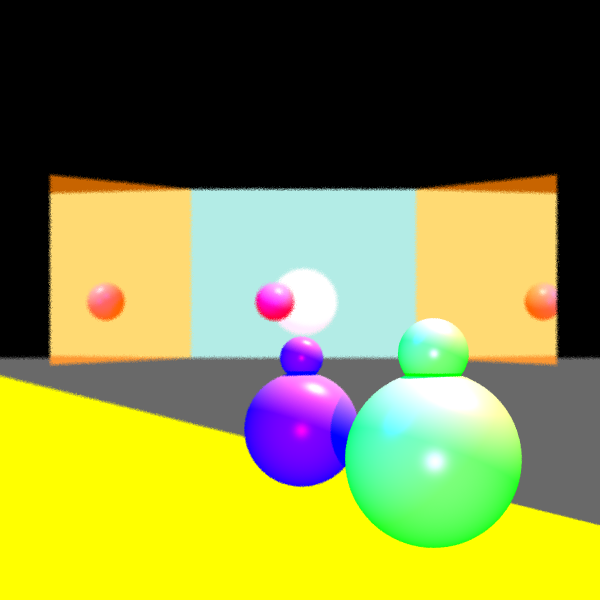
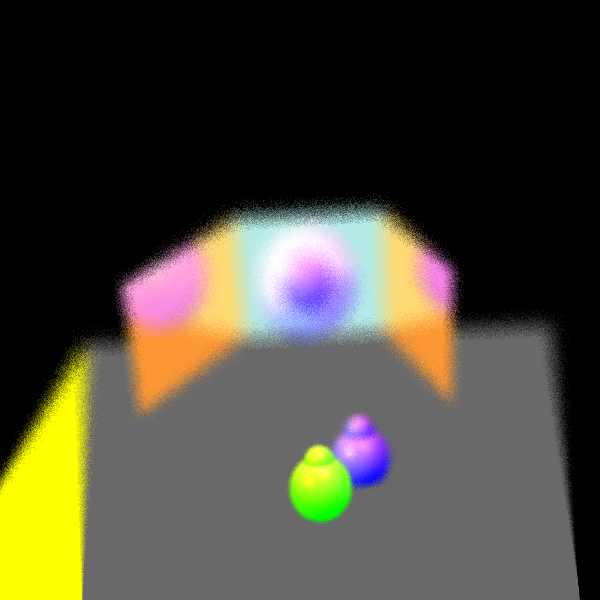
part 9 begin

diff --git a/unittests/renderer/CameraTest.java b/unittests/renderer/CameraTest.java
@@ -144,10 +144,11 @@ class CameraTest {
      */
     @Test
     public void ourImageWithDepth() {
-        Camera camera = new Camera(new Point(80, 0, 2), new Vector(-1, 0, 0), new Vector(0, 0, 1))
-                .setVPSize(200, 200).setVPDistance(1000);
+        Camera camera = new Camera(new Point(65, 5, 20), new Vector(-7, -0.5, -2), new Vector(-1, 0, 1))
+                .setVPSize(300, 300).setVPDistance(800);
 
-        camera.setDepthButton(true, 0.02, 13);
+
+        camera.setDepthButton(true, 2, 45);
 
         Point p0 = new Point(0, -3, 5);
         Point p1 = new Point(0, 3, 5);
@@ -177,43 +178,49 @@ class CameraTest {
                 new Quadrangle(p0, p1, p2, p3).setTransparency(new Double3(0.7)).setColor(Color.LIGHT_BLUE),
                 //mirrors
                 new Quadrangle(p1, p2, p5, p4).setReflectivity(new Double3(0.5)).setShininess(1000).setColor(Color.GOLD),
-                new Quadrangle(p7, p0, p3, p6).setReflectivity(new Double3(0.5)).setShininess(1000).setColor(Color.GOLD),
-                //sun
-                new Sphere(new Point(-100, 0, 2), 2d)
-                        .setEmission(Color.RED)
-                        .setMaterial(new Material().setKd(0.5).setKs(0.5).setShininess(30)),
+                new Quadrangle(p7, p0, p3, p6).setReflectivity(new Double3(0.5)).setShininess(1000).setColor(Color.GOLD)
+
+                ,new Sphere(new Point(2, 0, 3), 2)
+                .setEmission(Color.BLUE)
+                .setMaterial(new Material().setKd(0.5).setKs(0.5).setShininess(30).setKt(new Double3(0.7))),
+                new Sphere(new Point(2, 0, 3), 1)
+                        .setEmission(Color.BLUE)
+                        .setMaterial(new Material().setKd(0.2).setKs(0.1).setShininess(30)),
+
                 //close to window
-                new Sphere(new Point(1, -0.75, 2), 0.5)
-                        .setEmission(Color.RED)
-                        .setMaterial(new Material().setKd(0.5).setKs(0.5).setShininess(30)),
+
                 //close to camera bigger
-                new Sphere(new Point(63, 0.75, 1.1), 0.5)
-                        .setEmission(Color.GREEN)
-                        .setMaterial(new Material().setKd(0.5).setKs(0.5).setShininess(30)),
-                new Sphere(new Point(63, 0.75, 1.7), 0.2)
+
+
+                new Sphere(new Point(20, 2, 1.7), 1)
                         .setEmission(Color.GREEN)
                         .setMaterial(new Material().setKd(0.5).setKs(0.5).setShininess(30)),
                 //close to camera smaller
-                new Sphere(new Point(59, 0, 1.1), 0.4)
+                new Sphere(new Point(16, 3, 1.1), 1)
                         .setEmission(Color.BLUE)
                         .setMaterial(new Material().setKd(0.5).setKs(0.5).setShininess(30)),
-                new Sphere(new Point(59, 0, 1.6), 0.15)
+
+                        //heads
+                new Sphere(new Point(20, 2, 2.5), 0.5)
+                        .setEmission(Color.GREEN)
+                        .setMaterial(new Material().setKd(0.5).setKs(0.5).setShininess(30)),
+                //close to camera smaller
+                new Sphere(new Point(16, 3, 2), 0.5)
                         .setEmission(Color.BLUE)
                         .setMaterial(new Material().setKd(0.5).setKs(0.5).setShininess(30)),
-                //floor
-                //new Quadrangle(p16, p17, p19, p18).setColor(Color.YELLOW)
-                new Triangle(p16,p17,p19).setEmission(Color.DARK_GRAY),
-                new Triangle(p19,p18,p16).setEmission(Color.YELLOW)
+                        new Triangle(p16,p17,p19).setEmission(Color.DARK_GRAY),
+                        new Triangle(p19,p18,p16).setEmission(Color.YELLOW)
         );
 
         LinkedList<LightSource> lights = new LinkedList<>();
 
 
-        lights.add(new Spotlight(new Color(700, 400, 400),
-                new Point(40, 40, 115),
-                new Vector(-1, -1, -4)));
-        lights.add(new PointLight(Color.BLUE, new Point(100, -100, 100)));
-        lights.add(new DirectionalLight(Color.MAGENTA,new Vector(-1,0,0)));
+        lights.add(new Spotlight(Color.MAGENTA,
+                new Point(40, 40, 200),
+                new Vector(-1, -1, -4)).setKl(2E-5).setKq(2E-5));
+        lights.add(new PointLight(Color.YELLOW, new Point(100, -100, 100)));
+        //????????????move it or change color
+        lights.add(new DirectionalLight(Color.GOLD,new Vector(-2, -2, -5)));
 
         Scene scene2 = new Scene.SceneBuilder("Test scene").setGeometries(geometries)
                 .setLights(lights).build();
@@ -294,10 +301,11 @@ class CameraTest {
      */
     @Test
     public void ourImageWithSmoothEdges() {
-        Camera camera = new Camera(new Point(80, 0, 2), new Vector(-1, 0, 0), new Vector(0, 0, 1))
-                .setVPSize(200, 200).setVPDistance(1000);
+        Camera camera = new Camera(new Point(55, 5, 20), new Vector(-7, -0.5, -2), new Vector(-1, 0, 1))
+                .setVPSize(300, 300).setVPDistance(1000);
 
-        camera.setJaggedEdgesButton(true, 3);
+
+        camera.setJaggedEdgesButton(true, 10);
 
         camera.setJaggedEdgesButton(true);
         Point p0 = new Point(0, -3, 5);

diff --git a/unittests/renderer/ShadowTests.java b/unittests/renderer/ShadowTests.java
@@ -165,8 +165,8 @@ public class ShadowTests {
 
         Camera camera = new Camera(new Point(0, 0, 1000), new Vector(0, 0, -1), new Vector(0, 1, 0)) //
                 .setVPSize(200, 200).setVPDistance(1000) //
-                .setRayTracer(new RayTracerBasic(scene2).setSoftShadowsButton(true, 10));
-
+                .setRayTracer(new RayTracerBasic(scene2).setSoftShadowsButton(false, 10));
+camera.setJaggedEdgesButton(true);
         camera.setImageWriter(new ImageWriter("shadowTrianglesSphere soft shadows", 600, 600)) //
                 .renderImage() //
                 .writeToImage();
